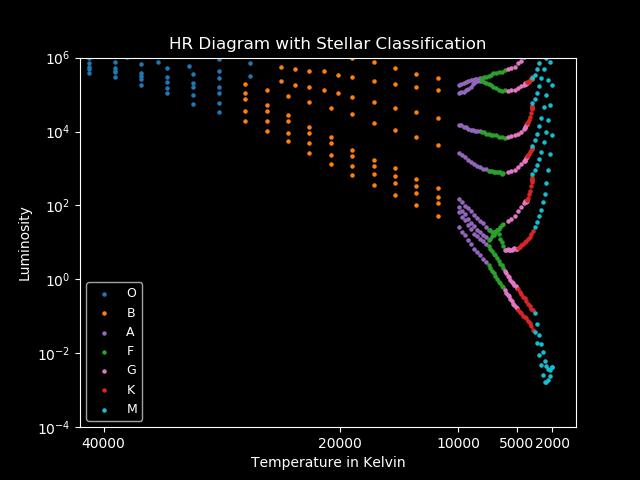
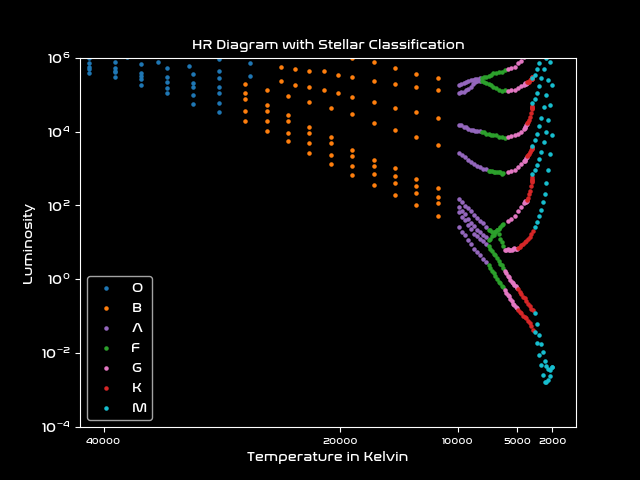
Updating information and scripts with config

diff --git a/plotter.py b/plotter.py
@@ -1,13 +1,15 @@
+import os
 import csv
+import sys
 import math
 import numpy as np
 import matplotlib.pyplot as plt
+from matplotlib import font_manager as fm, rcParams
+from config import *
 
-#Change if you want do not want to show the graph.
-SHOW_GRAPH = True
-
-#Relative path to .csv file
-PATH = 'resources/star_data.csv'
+#Information for nasalization font.
+FONT_PATH = os.path.join(rcParams["datapath"], os.path.abspath(FONT_PATH))
+FONT_PROPS = fm.FontProperties(fname=FONT_PATH)
 
 #Index's for data points in .csv
 TYPE_INDEX = 0
@@ -41,7 +43,7 @@ category_mapping = {
 
 
 #Read the csv and get relevant data
-with open(PATH) as csv_file:
+with open(CSV_PATH) as csv_file:
     csv_reader = csv.reader(csv_file)
     for row in csv_reader:
         print(row)
@@ -70,15 +72,17 @@ ax.set_yscale('log')
 ax.set_xticks([2000, 5000, 10000, 20000, 40000])
 ax.set_ylim([0.0001,1000000])
 ax.set_xlim([0, 42000])
-ax.legend(prop={'size': 9})
+ax.legend(prop=FONT_PROPS)
 lims = plt.xlim()
 plt.xlim([lims[1], lims[0]]) 
 
-#Set graph information
-plt.xlabel("Temperature in Kelvin")
-plt.ylabel("Luminosity")
-plt.title("HR Diagram with Stellar Classification")
 
+#Set graph text information
+plt.xlabel("Temperature in Kelvin", fontproperties=FONT_PROPS)
+plt.ylabel("Luminosity", fontproperties=FONT_PROPS)
+plt.title("HR Diagram with Stellar Classification", fontproperties=FONT_PROPS)
+plt.yticks(fontproperties=FONT_PROPS, fontsize=10)
+plt.xticks(fontproperties=FONT_PROPS, fontsize=7)
 
 #Save off a file for infographic
 plt.savefig("imgs/hr_diagram.png")

diff --git a/percentage_chart.py b/percentage_chart.py
@@ -1,0 +1,47 @@
+
+import os
+import matplotlib.pyplot as plt; plt.rcdefaults()
+import numpy as np
+import matplotlib.pyplot as plt
+from matplotlib import font_manager as fm, rcParams
+from config import *
+
+
+#Information for nasalization font.
+FONT_PATH_CONFIGURED = os.path.join(rcParams["datapath"], os.path.abspath(FONT_PATH))
+FONT_PROPS = fm.FontProperties(fname=FONT_PATH_CONFIGURED)
+
+#Dark background theme
+plt.style.use('dark_background')
+
+#Objects to plot
+objects = 'O', 'B', 'A', 'F', 'G', 'K', 'M'
+y_pos = np.arange(len(objects))
+#Percentages for each
+percentages = [0.00001, 0.1, 0.7, 2, 3.5, 8, 80]
+
+#Configure individual values.
+fig, ax = plt.subplots()
+for i, v in enumerate(percentages):
+    ax.text(v + 3, i, str(v) + ' %', color='white', fontproperties=FONT_PROPS)
+
+#Plot the bar and configure axis
+plt.barh(y_pos, percentages, align='center', alpha=0.5, color = 'aqua')
+plt.yticks(y_pos, objects)
+plt.xticks([i*10 for i in range(0,11)])
+
+
+#Set graph text information
+plt.xlabel("Percentage", fontproperties=FONT_PROPS)
+plt.ylabel("Stellar Class", fontproperties=FONT_PROPS)
+plt.title("Estimated Stellar Class Percentage", fontproperties=FONT_PROPS)
+plt.yticks(fontproperties=FONT_PROPS, fontsize=10)
+plt.xticks(fontproperties=FONT_PROPS, fontsize=10)
+
+#Save off a file for infographic
+plt.savefig("imgs/stellar_percentages.png")
+
+#Show the plot of the data
+if SHOW_GRAPH:
+    plt.show()
+

diff --git a/draw_stars.py b/draw_stars.py
@@ -1,7 +1,7 @@
 import PIL.Image, PIL.ImageDraw, PIL.ImageFont
+from config import *
 
 #Get nasa font information
-FONT_PATH = r"resources/nasalization-rg.ttf"
 FONT_NASA = PIL.ImageFont.truetype(FONT_PATH, 40)
 
 
@@ -33,6 +33,10 @@ for key in stellar_classification_data:
         draw.text((x - 15, y-80), key, fill = 'white', font = FONT_NASA)
     else:
         draw.text((x - 15, y-150), key, fill = 'white', font = FONT_NASA)
+
+#Draw text for hottest vs coldest
+draw.text((stellar_classification_data['O']['x']-65, stellar_classification_data['O']['y']+140), "Hottest", font=FONT_NASA, fill = 'white')
+draw.text((stellar_classification_data['m']['x']-80, stellar_classification_data['m']['y']+140), "Coldest", font=FONT_NASA, fill = 'white')
 
 #Save the image.
 img.save("imgs/circles.png")

diff --git a/config.py b/config.py
@@ -1,0 +1,11 @@
+#Boolean to show graph
+SHOW_GRAPH = True
+
+#Information for nasalization font.
+FONT_PATH = "resources/nasalization-rg.ttf"
+
+#Relative path to .csv file
+CSV_PATH = 'resources/star_data.csv'
+
+
+

diff --git a/README.md b/README.md
@@ -10,6 +10,12 @@ Need to look at these.
 
 --> https://iopscience.iop.org/article/10.1088/0004-6256/149/4/131
 
+
+
+
+
+https://iopscience.iop.org/1538-3881/149/4/131/suppdata/aj509759t2_votable.xml
+
 ## Astronomer Sources
 --> http://www.isthe.com/chongo/tech/astro/HR-temp-mass-table-byhrclass.html
 By American Computer Scientist Landon Curt Noll.  He is best known for discovering 25th/26th Mersenne Prime number.  He is
